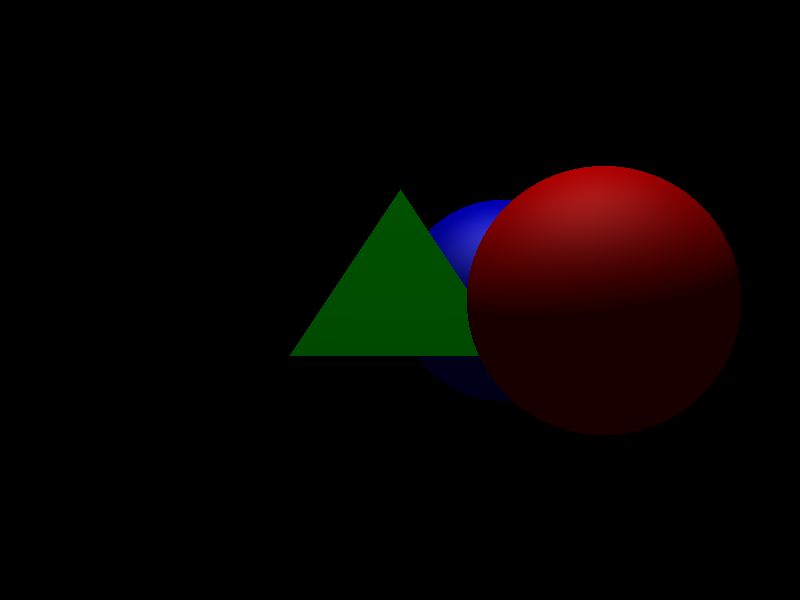
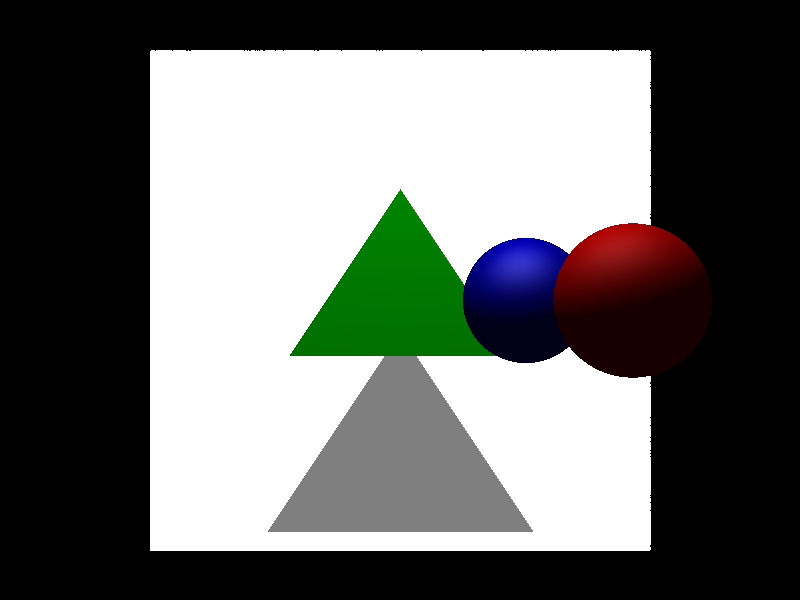
Add quad

diff --git a/src/main.cpp b/src/main.cpp
@@ -11,6 +11,7 @@
 #include "Raytracing.hpp"
 #include "Triangle.hpp"
 #include "Ray.hpp"
+#include "Quad.hpp"
 
 using namespace Eigen;
 using namespace cimg_library;
@@ -21,24 +22,24 @@ int main()
   // Sphere definition
   // Sphere 1
   Quaterniond s1_rot(1,0,0,0);
-  Vector3d s1_pos(5,0,3);
+  Vector3d s1_pos(3,0,3);
   Vector3d s1_center(s1_pos);
-  double s1_radius(2);
+  double s1_radius(1);
 
   Vector3d s1_ka(0.2,0,0);
   Vector3d s1_kd(0.6,0,0);
-  Vector3d s1_ks(0.1,0.1,0.1);
+  Vector3d s1_ks(0.5,0.5,0.5);
   //Vector3d s1_ks(0,0,0);
-  double s1_n(3);
+  double s1_n(30);
   Material s1_mat(s1_ka, s1_kd, s1_ks, s1_n);
 
   Sphere s1(s1_pos, s1_rot, s1_center, s1_radius, s1_mat);
 
   // Sphere 2
   Quaterniond s2_rot(1,0,0,0);
-  Vector3d s2_pos(10,0,2);
+  Vector3d s2_pos(6,0,2);
   Vector3d s2_center(s2_pos);
-  double s2_radius(2);
+  double s2_radius(1);
 
   Vector3d s2_ka(0,0,0.2);
   Vector3d s2_kd(0,0,0.6);
@@ -62,9 +63,16 @@ int main()
 
   Triangle t1(t1_pos, t1_rot, t1_v1, t1_v2, t1_v3, t1_mat);
 
-  // Light definition
+  // Quads definition
+  Quaterniond q1_rot(1,0,0,0);
+  Vector3d q1_pos(10,0,0);
+  Vector3d q1_v1(10,-5,-5), q1_v2(10,-5,5), q1_v3(10,5,5), q1_v4(10,5,-5);
+
+  Quad q1(q1_pos, q1_rot, q1_v1, q1_v2, q1_v3, q1_v4);
+
+  // Lights definition
   Quaterniond l1_rot(1,0,0,0);
-  Vector3d l1_pos(2,20,0);
+  Vector3d l1_pos(2,9.9,0);
   Vector3d l1_id(1,1,1);
   Vector3d l1_is(1,1,1);
 
@@ -85,6 +93,7 @@ int main()
   scene.AddPhysicalObject(&s1);
   scene.AddPhysicalObject(&s2);
   scene.AddPhysicalObject(&t1);
+  scene.AddPhysicalObject(&q1);
   scene.AddLight(&l1);
   //scene.AddLight(&l2);
 

diff --git a/include/Quad.hpp b/include/Quad.hpp
@@ -1,0 +1,35 @@
+#ifndef QUAD_HPP
+#define QUAD_HPP
+
+#include "Triangle.hpp"
+
+class Quad: public PhysicalObject
+{
+public:
+  Quad(
+    Eigen::Vector3d pos,
+    Eigen::Quaterniond rot,
+    Eigen::Vector3d v1,
+    Eigen::Vector3d v2,
+    Eigen::Vector3d v3,
+    Eigen::Vector3d v4,
+    Material mat = Material::Default()
+  ): PhysicalObject(pos, rot, mat), m_t1(pos, rot, v1, v2, v3, mat), m_t2(pos, rot, v1, v3, v4, mat) {}
+
+  bool IsIntersected(Ray* ray) {return (m_t1.IsIntersected(ray) || m_t2.IsIntersected(ray));}
+  Eigen::Vector3d Intersect(Ray* ray)
+  {
+    if (m_t1.IsIntersected(ray))
+    {return m_t1.Intersect(ray);}
+    else if (m_t2.IsIntersected(ray))
+    {return m_t2.Intersect(ray);}
+    else
+    {return Eigen::Vector3d(0,0,0);}
+  }
+  Eigen::Vector3d getNormal(Eigen::Vector3d point) {return m_t1.getNormal(point);}
+
+private:
+  Triangle m_t1, m_t2;
+};
+
+#endif
